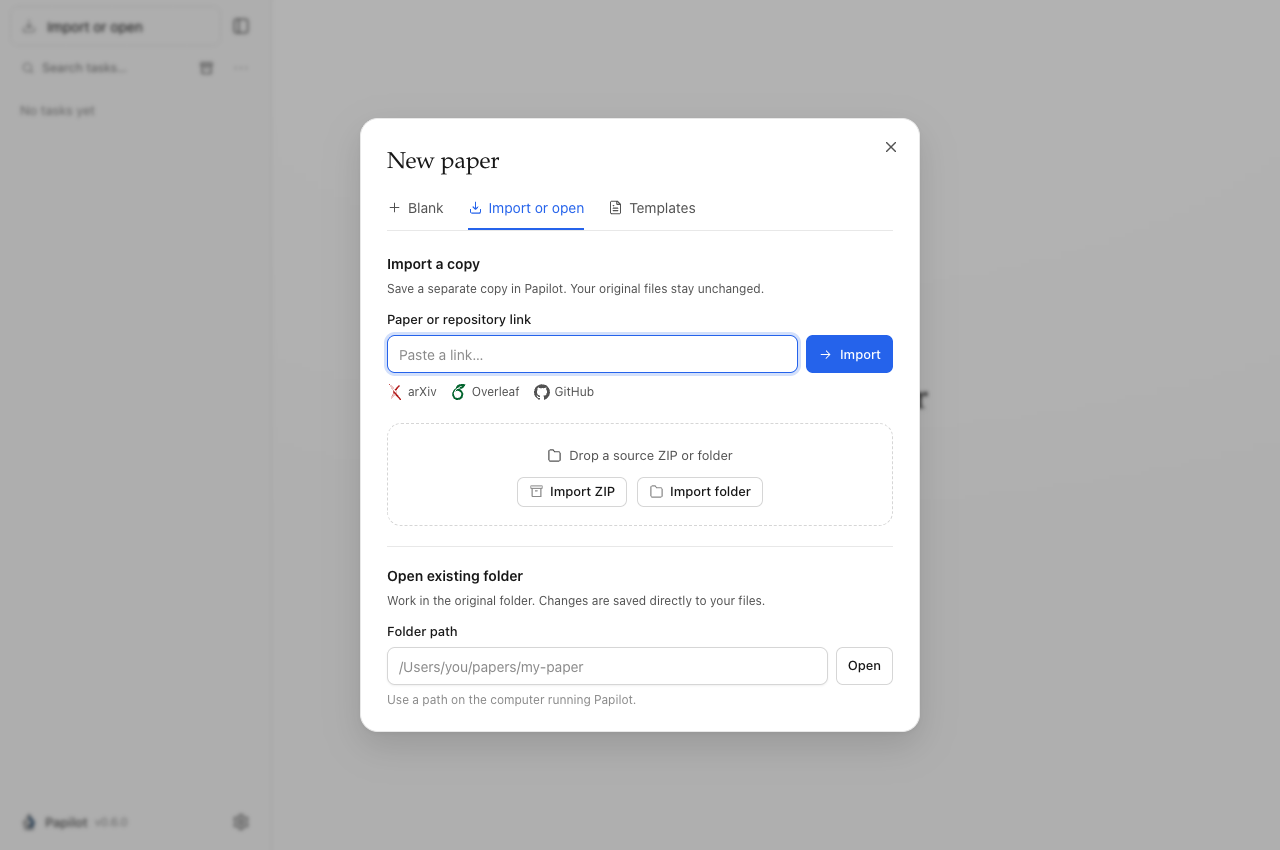
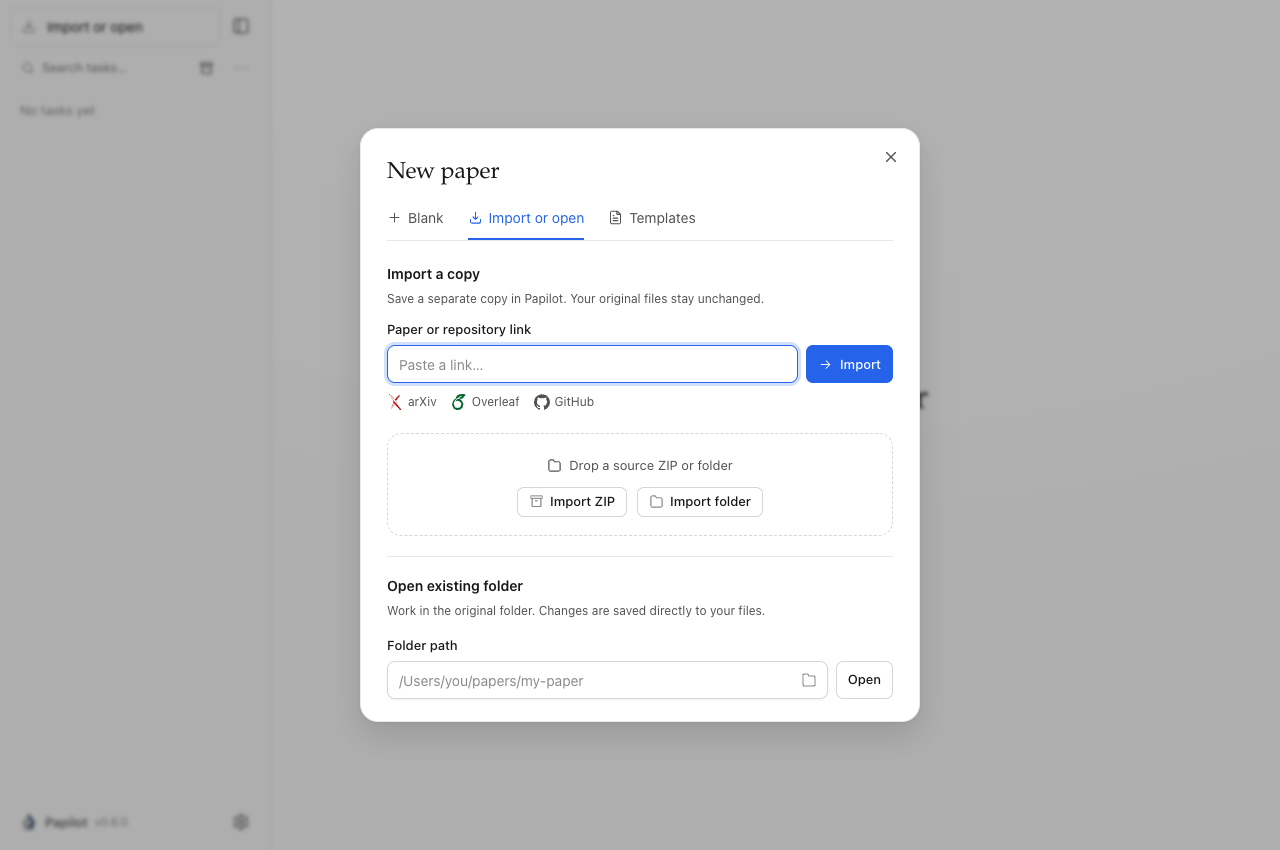
Keep detected main files editable and make folder browsing more robust
A detected main file is the only candidate, so keep it in a text field.
Start browsing at home for relative paths, fall back to the folder list
when the system picker cannot run, keep Windows drive roots, return
focus to the path field, and refresh the import dialog screenshots.

diff --git a/src/server/folder-picker.ts b/src/server/folder-picker.ts
@@ -50,12 +50,13 @@ function run(command: Command, signal?: AbortSignal) {
   return new Promise<FolderChoice | 'missing'>((resolve, reject) => {
     const child = spawn(command.command, command.args, { env: { ...process.env, ...command.env }, stdio: ['ignore', 'pipe', 'pipe'], windowsHide: false, signal });
     let stdout = '', stderr = '';
+    child.stdout.setEncoding('utf8'); child.stderr.setEncoding('utf8');
     child.stdout.on('data', chunk => { stdout += chunk; });
     child.stderr.on('data', chunk => { stderr += chunk; });
     child.on('error', error => (error as NodeJS.ErrnoException).code === 'ENOENT' ? resolve('missing') : reject(error));
     child.on('close', code => {
       const path = stdout.replace(/\r?\n$/, '');
-      if (code === 0) resolve({ path: path ? path.replace(/(.)[\\/]$/, '$1') : null });
+      if (code === 0) resolve({ path: path ? path.replace(/([^\\/:])[\\/]$/, '$1') : null });
       else if (command.cancelled(code, stderr)) resolve({ path: null });
       else reject(new Error(stderr.trim() || `${command.command} exited with ${code}.`));
     });
@@ -72,7 +73,14 @@ export function chooseFolder(title: string, start: string, signal?: AbortSignal,
     const stop = new AbortController();
     const choice = (async () => {
       for (const command of pickerCommands(platform, env, title, start)) {
-        const result = await run(command, stop.signal);
+        let result: FolderChoice | 'missing';
+        try { result = await run(command, stop.signal); }
+        catch (error) {
+          if (stop.signal.aborted) throw error;
+          // A server without access to the screen, such as one started over SSH, browses in the page.
+          console.warn(`Folder picker failed: ${(error as Error).message}`);
+          return { unavailable: true } as const;
+        }
         if (result !== 'missing') return result;
       }
       return { unavailable: true } as const;

diff --git a/src/web/import-dialog.tsx b/src/web/import-dialog.tsx
@@ -172,8 +172,9 @@ export function ImportPanel({ api, agent, canRepair, onChooseFolder, onDone, onC
         </div>
         <form onSubmit={event => { event.preventDefault(); void build(); }}>
           <label>{t('Paper name')}<input required maxLength={120} value={form.name} disabled={locked} onChange={event => setForm({ ...form, name: event.target.value })}/></label>
-          <div className="import-settings"><label>{t('Main TeX file')}{draft.candidates.length
+          <div className="import-settings"><label>{t('Main TeX file')}{draft.candidates.length > 1
             // The app's list matches the theme and shows long nested paths as name and folder.
+            // A detected main file stays editable, since other files are not listed then.
             ? <ChipSelect className="field-select" label={t('Main TeX file')} value={form.main} disabled={locked} onChange={main => setForm({ ...form, main })} display={form.main.split('/').at(-1) || t('Select')}
               options={draft.candidates.map(file => ({ value: file, label: file.split('/').at(-1)!, detail: file.includes('/') ? file.slice(0, file.lastIndexOf('/')) : undefined }))}/>
             : <input aria-label={t('Main TeX file')} value={form.main} disabled={locked} onChange={event => setForm({ ...form, main: event.target.value })} placeholder="main.tex" spellCheck={false}/>}</label>

diff --git a/tests/folder-picker.test.ts b/tests/folder-picker.test.ts
@@ -44,8 +44,12 @@ test('Linux pickers report choices, cancellation and unavailability', { skip: pr
   assert.equal(second, first, 'A second request waits for the open picker instead of showing another');
   write('zenity', 'exit 1');
   assert.deepEqual(await chooseFolder('Choose', '/home/you', undefined, 'linux', env), { path: null });
+  write('zenity', "printf '%s\\n' 'E:\\'");
+  assert.deepEqual(await chooseFolder('Choose', '/home/you', undefined, 'linux', env), { path: 'E:\\' }, 'A drive root keeps its separator');
   write('zenity', 'echo "Gtk-WARNING: cannot open display" >&2; exit 5');
-  await assert.rejects(chooseFolder('Choose', '/home/you', undefined, 'linux', env), /cannot open display/);
+  const warn = t.mock.method(console, 'warn', () => undefined);
+  assert.deepEqual(await chooseFolder('Choose', '/home/you', undefined, 'linux', env), { unavailable: true }, 'A picker that cannot show browses in the page');
+  assert.match(String(warn.mock.calls[0].arguments[0]), /cannot open display/);
 });
 
 test('a shared picker closes only after every waiting request leaves', { skip: process.platform === 'win32' && 'Uses POSIX shell scripts.' }, async t => {

diff --git a/src/server/folders.ts b/src/server/folders.ts
@@ -7,13 +7,12 @@ const isFolder = (target: string) => fs.promises.stat(target).then(stat => stat.
 
 const absolute = 'Enter an absolute folder path on the computer running Papilot.';
 // A partly typed, moved or file path resolves to its nearest existing folder;
-// an empty path or ~ starts in the home folder.
+// an empty, relative or ~ path starts in the home folder.
 export async function nearestFolder(value: unknown) {
   if (value !== undefined && (typeof value !== 'string' || value.length > 4000 || value.includes('\0'))) throw new Error('Invalid file path.');
   const typed = (value as string | undefined)?.trim() || '~';
   const requested = typed === '~' || /^~[\\/]/.test(typed) ? path.join(os.homedir(), typed.slice(1)) : typed;
-  if (!path.isAbsolute(requested)) throw new Error(absolute);
-  let current = path.resolve(requested);
+  let current = path.isAbsolute(requested) ? path.resolve(requested) : os.homedir();
   while (!await isFolder(current) && path.dirname(current) !== current) current = path.dirname(current);
   return current;
 }

diff --git a/tests/folders.test.ts b/tests/folders.test.ts
@@ -48,7 +48,7 @@ test('an empty path or ~ starts in the home folder; the filesystem root has no p
 });
 
 test('rejects relative, malformed and unreadable paths with product errors', { skip: process.platform === 'win32' && 'POSIX permissions only.' }, async t => {
-  await assert.rejects(listFolders({ path: 'papers/mine' }), { message: 'Enter an absolute folder path on the computer running Papilot.' });
+  assert.equal((await listFolders({ path: 'papers/mine' })).path, os.homedir(), 'A relative path starts browsing at home');
   await assert.rejects(listFolders({ path: 42 }), { message: 'Invalid file path.' });
   await assert.rejects(listFolders({ path: '/tmp/\0' }), { message: 'Invalid file path.' });
   await assert.rejects(listFolders({ path: '/' + 'a'.repeat(4001) }), { message: 'Invalid file path.' });

diff --git a/src/web/folder-browser.tsx b/src/web/folder-browser.tsx
@@ -51,7 +51,7 @@ export function FolderField({ id, name = 'path', api, label, value, onChange, ti
       </div>
       {children}
     </div>
-    {browsing && <FolderBrowser id={id + '-browser'} api={api} start={value} action={action} onPath={onChange} onChoose={path => { setBrowsing(false); onPicked(path); }} onCancel={() => { setBrowsing(false); document.getElementById(id)?.focus(); }}/>}
+    {browsing && <FolderBrowser id={id + '-browser'} api={api} start={value} action={action} onPath={onChange} onChoose={path => { setBrowsing(false); document.getElementById(id)?.focus(); onPicked(path); }} onCancel={() => { setBrowsing(false); document.getElementById(id)?.focus(); }}/>}
   </>;
 }
 

diff --git a/docs/guide.md b/docs/guide.md
@@ -37,7 +37,7 @@ A source checkout keeps its state in `.papilot` inside the checkout, and `npm ru
 
 With Nix, run `nix run . -- demo` from the checkout to build and launch the CLI/browser app with Node.js, Git and TeX Live. `nix develop` supplies the development environment, and `nix build` creates `result/bin/papilot`. See [Nix setup](nix.md) for supported systems, installation and updates.
 
-Open [Papilot](http://127.0.0.1:7274) and select **Import or open**. **Open existing folder** edits the original files: In the desktop app, **Choose folder…** opens the system folder picker. In a browser, type the folder's path and select **Open**, or select **Browse…**: on the computer running Papilot it opens the system folder picker; on another device, such as a phone connected through Tailscale, it lists that computer's folders below the path, then **Open this folder** opens the one shown. Hidden folders are not listed. **Import a copy** saves a separate copy of a folder or LaTeX ZIP in the Papilot data folder (`papers/`), leaving the original unchanged. **Import folder** and **Import ZIP** behave the same in the browser and desktop app. Folder and ZIP uploads stream to disk without a fixed size or file-count limit; available storage still applies. Later papers are added and switched from the paper menu at the top of the sidebar.
+Open [Papilot](http://127.0.0.1:7274) and select **Import or open**. **Open existing folder** edits the original files: In the desktop app, **Choose folder…** opens the system folder picker. In a browser, type the folder's path and select **Open**, or select the folder button inside the field (**Browse…**): on the computer running Papilot it opens the system folder picker; on another device, such as a phone connected through Tailscale, it lists that computer's folders below the path, then **Open this folder** opens the one shown. Hidden folders are not listed. **Import a copy** saves a separate copy of a folder or LaTeX ZIP in the Papilot data folder (`papers/`), leaving the original unchanged. **Import folder** and **Import ZIP** behave the same in the browser and desktop app. Folder and ZIP uploads stream to disk without a fixed size or file-count limit; available storage still applies. Later papers are added and switched from the paper menu at the top of the sidebar.
 
 The [homepage](https://papilot.ai/) links to [Universe](https://papilot.ai/universe/) through the planet link beside its logo (including on phones), below the downloads and in the footer, so you can browse LaTeX templates before opening the app. On narrow screens, the play button beside Universe opens the online demo.
 

diff --git a/CHANGELOG.md b/CHANGELOG.md
@@ -19,7 +19,7 @@ Notable changes to Papilot, newest first. The format follows [Keep a Changelog](
 
 ### Changed
 
-- Add **Browse…** beside folder paths in the browser, for opening an existing paper or choosing where to save a new one. On the computer running Papilot it opens the system folder picker; on other devices, such as a phone over Tailscale, it lists that computer's folders. Choose the main TeX file from a themed list showing each file's folder.
+- Add a folder button (**Browse…**) inside folder path fields in the browser, for opening an existing paper or choosing where to save a new one. On the computer running Papilot it opens the system folder picker; on other devices, such as a phone over Tailscale, it lists that computer's folders. When several TeX files are found, choose the main file from a themed list showing each file's folder.
 
 - Clarify **Import or open**: opening an existing folder edits its original files, while **Import a copy** keeps originals unchanged. The original-folder option is visible immediately. Folder and ZIP uploads stream to disk without the former 64 MiB / 5,000-file caps.
 
